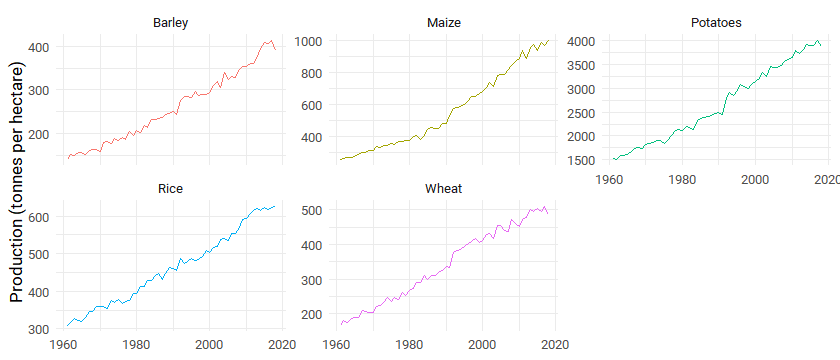
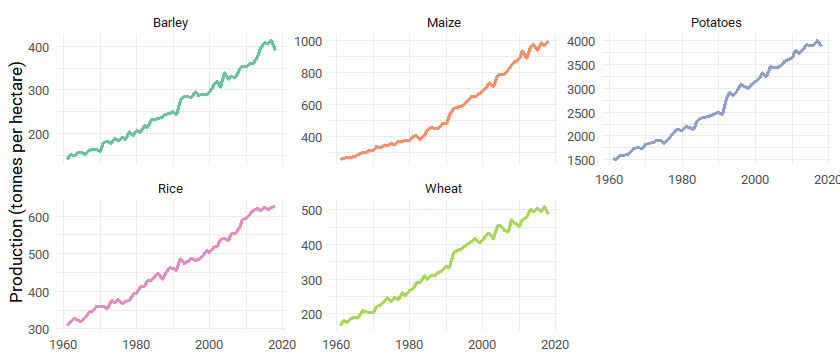
Couple of small changes

diff --git a/20200901_Crop_Yield/README.md b/20200901_Crop_Yield/README.md
@@ -27,7 +27,8 @@ key_crop_yields %>%
   summarise(TotalProduction = sum(Amount, na.rm = T)) %>%
   filter(!is.na(TotalProduction) & Crop %in% key_crops) %>%
   ggplot(aes(x = Year, y = TotalProduction, colour = Crop)) +
-  geom_line() +
+  geom_line(size = 1) +
+  scale_color_brewer(type = 'qual', palette = 'Set2') +
   labs(
     x = NULL,
     y = "Production (tonnes per hectare)"
@@ -51,21 +52,8 @@ country_to_continent <- key_crop_yields %>%
     destination = "continent"
   )) %>%
   filter(!is.na(Continent))
-```
 
-    ## Warning: Problem with `mutate()` input `Continent`.
-    ## x Some values were not matched unambiguously: Africa, Americas, Asia, Asia, Central, Australia & New Zealand, Belgium-Luxembourg, Caribbean, Central America, Czechoslovakia, Eastern Africa, Eastern Asia, Eastern Europe, Europe, Europe, Western, European Union, Land Locked Developing Countries, Least Developed Countries, Low Income Food Deficit Countries, Melanesia, Micronesia (country), Micronesia (region), Middle Africa, Net Food Importing Developing Countries, Northern Africa, Northern America, Northern Europe, Oceania, Pacific Islands Trust Territory, Polynesia, Serbia and Montenegro, Small island developing States, South America, South Eastern Asia, Southern Africa, Southern Asia, Southern Europe, Timor, Western Africa, Western Asia, World, Yugoslavia
-    ## i Input `Continent` is `countrycode(sourcevar = Entity, origin = "country.name", destination = "continent")`.
 
-    ## Warning in countrycode(sourcevar = Entity, origin = "country.name", destination = "continent"): Some values were not matched unambiguously: Africa, Americas, Asia, Asia, Central, Australia & New Zealand, Belgium-Luxembourg, Caribbean, Central America, Czechoslovakia, Eastern Africa, Eastern Asia, Eastern Europe, Europe, Europe, Western, European Union, Land Locked Developing Countries, Least Developed Countries, Low Income Food Deficit Countries, Melanesia, Micronesia (country), Micronesia (region), Middle Africa, Net Food Importing Developing Countries, Northern Africa, Northern America, Northern Europe, Oceania, Pacific Islands Trust Territory, Polynesia, Serbia and Montenegro, Small island developing States, South America, South Eastern Asia, Southern Africa, Southern Asia, Southern Europe, Timor, Western Africa, Western Asia, World, Yugoslavia
-
-    ## Warning: Problem with `mutate()` input `Continent`.
-    ## x Some strings were matched more than once, and therefore set to <NA> in the result: Australia & New Zealand,Oceania,Oceania
-    ## i Input `Continent` is `countrycode(sourcevar = Entity, origin = "country.name", destination = "continent")`.
-
-    ## Warning in countrycode(sourcevar = Entity, origin = "country.name", destination = "continent"): Some strings were matched more than once, and therefore set to <NA> in the result: Australia & New Zealand,Oceania,Oceania
-
-``` r
 key_crop_yields %>%
   inner_join(country_to_continent) %>%
   pivot_longer(ends_with("per hectare)"),
@@ -77,8 +65,10 @@ key_crop_yields %>%
   group_by(Year, Continent, Crop) %>%
   summarise(Total_Production = sum(Amount, na.rm = T)) %>%
   ggplot(aes(x = Year, y = Total_Production, colour = Crop)) +
-  geom_line(size = 1.5) +
+  geom_line(size = 1) +
   facet_wrap(~Continent, scales = "free_y") +
+  scale_color_brewer(type = 'qual', palette = 'Set2') +
+  theme(legend.position = 'bottom') +
   labs(
     x = NULL,
     y = "Total Production (tonnes per hectare)"
@@ -110,15 +100,8 @@ tractor_use_pop <- tractors %>%
   transmute(Entity, Year = as.integer(Year),
             TractorsPer100SqKm = `Tractors per 100 sq km arable land`,
             Population = `Total population (Gapminder)`)
-```
 
-    ## Warning: Problem with `mutate()` input `Year`.
-    ## x NAs introduced by coercion
-    ## i Input `Year` is `as.integer(Year)`.
 
-    ## Warning in mask$eval_all_mutate(dots[[i]]): NAs introduced by coercion
-
-``` r
 potato_full_data <- potato_data %>%
   inner_join(arable_land) %>%
   inner_join(fertilizer_use) %>%
@@ -126,26 +109,13 @@ potato_full_data <- potato_data %>%
   mutate(across(where(is.numeric), replace_na, replace=0))
 ```
 
-Let’s do a quick correlation plot
-
-``` r
-library(corrplot)
-
-potato_full_data %>%
-  select(-Entity, -Continent) %>%
-  cor() %>%
-  corrplot()
-```
-
-![](README_files/figure-gfm/unnamed-chunk-4-1.png)<!-- -->
-
 Linear regression time
 
 ``` r
 library(tidymodels)
 
 potato_recp <- recipe(Potatoes ~ ., data = potato_full_data) %>%
-  update_role(Entity, Year, new_role="id") %>%
+  update_role(Entity, new_role="id") %>%
   step_dummy(Continent) %>%
   step_normalize(all_predictors()) %>%
   step_zv(all_predictors()) 
@@ -160,16 +130,16 @@ potato_prep
     ## Inputs:
     ## 
     ##       role #variables
-    ##         id          2
+    ##         id          1
     ##    outcome          1
-    ##  predictor          5
+    ##  predictor          6
     ## 
     ## Training data contained 8120 data points and no missing data.
     ## 
     ## Operations:
     ## 
     ## Dummy variables from Continent [trained]
-    ## Centering and scaling for ArableLand, FertilizerUse, ... [trained]
+    ## Centering and scaling for Year, ArableLand, ... [trained]
     ## Zero variance filter removed no terms [trained]
 
 ``` r
@@ -210,12 +180,13 @@ potato_fit %>%
 
 | term                | estimate | std.error | statistic | p.value |
 | :------------------ | -------: | --------: | --------: | ------: |
-| (Intercept)         |   11.404 |     0.092 |   124.213 |       0 |
-| Continent\_Europe   |    3.906 |     0.119 |    32.848 |       0 |
-| FertilizerUse       |    2.599 |     0.095 |    27.215 |       0 |
-| TractorsPer100SqKm  |    2.339 |     0.106 |    22.005 |       0 |
-| Continent\_Asia     |    2.102 |     0.109 |    19.199 |       0 |
-| Continent\_Americas |    0.763 |     0.107 |     7.137 |       0 |
-| Population          |    0.505 |     0.096 |     5.237 |       0 |
-| Continent\_Oceania  |    0.412 |     0.098 |     4.219 |       0 |
-| ArableLand          |  \-0.634 |     0.092 |   \-6.891 |       0 |
+| (Intercept)         |   11.404 |     0.089 |   127.460 |       0 |
+| Continent\_Europe   |    4.052 |     0.116 |    34.899 |       0 |
+| TractorsPer100SqKm  |    2.360 |     0.104 |    22.786 |       0 |
+| Continent\_Asia     |    2.184 |     0.107 |    20.452 |       0 |
+| Year                |    2.038 |     0.098 |    20.751 |       0 |
+| FertilizerUse       |    1.758 |     0.101 |    17.323 |       0 |
+| Continent\_Americas |    0.854 |     0.104 |     8.197 |       0 |
+| Population          |    0.527 |     0.094 |     5.611 |       0 |
+| Continent\_Oceania  |    0.357 |     0.095 |     3.758 |       0 |
+| ArableLand          |  \-0.522 |     0.090 |   \-5.812 |       0 |
